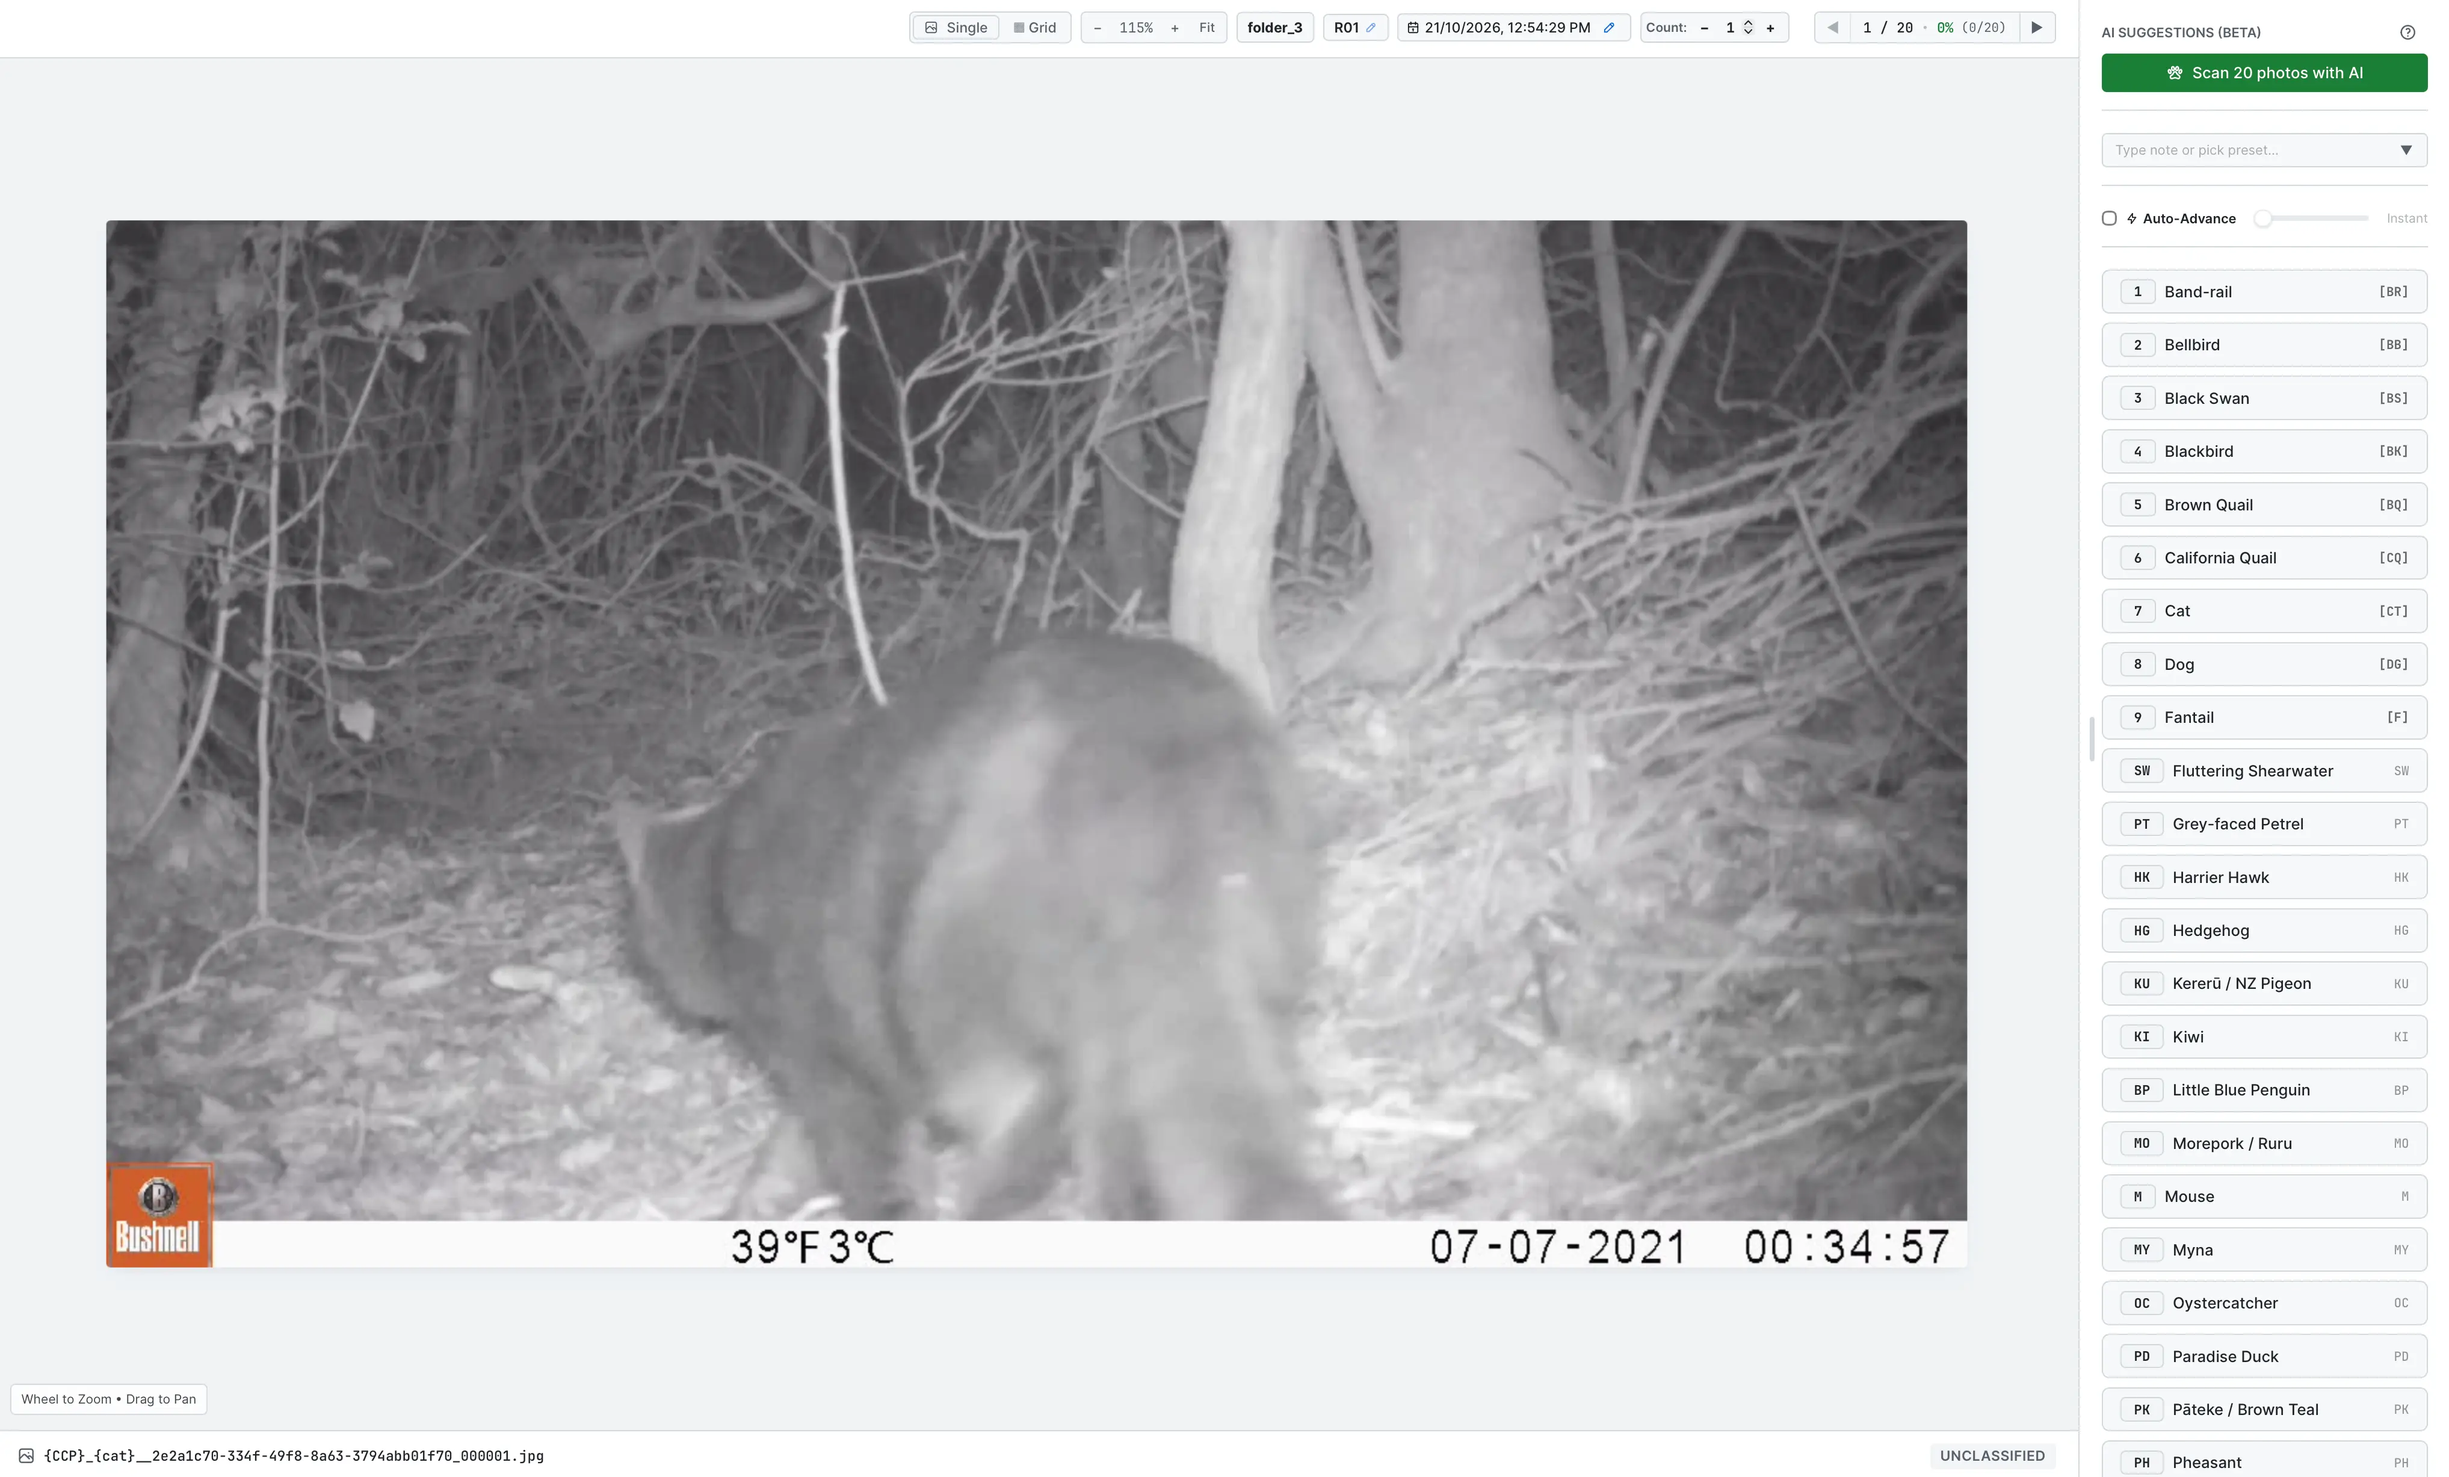
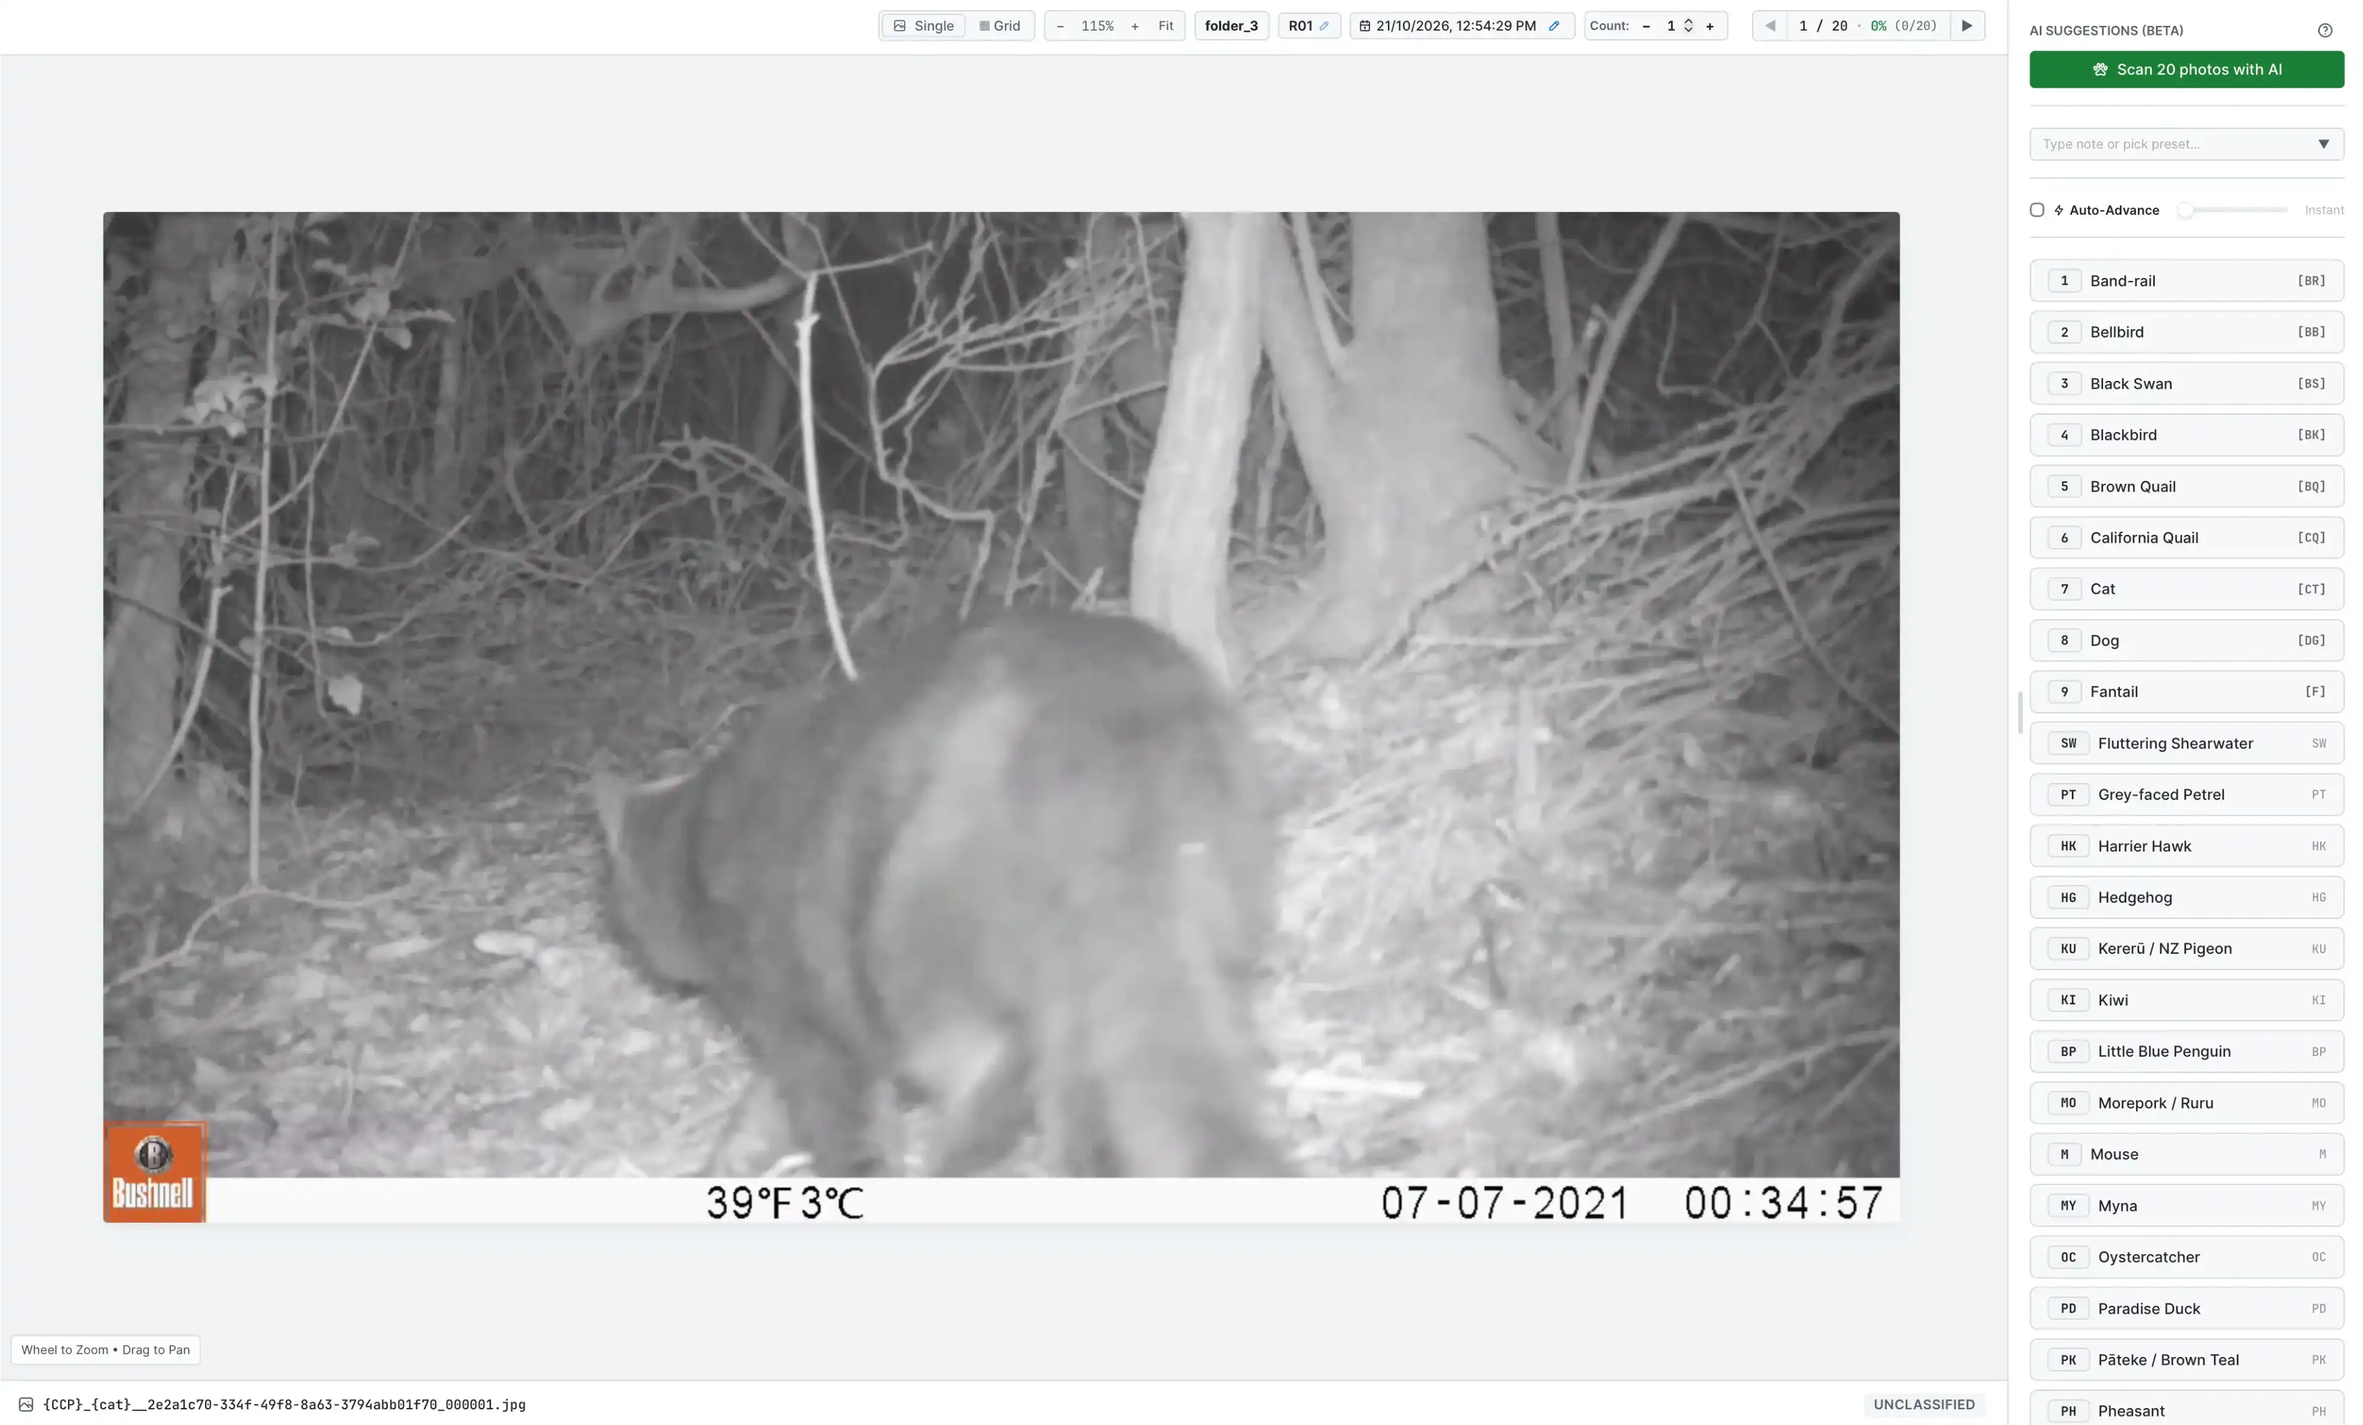
Update image ratio's and guide wording ✏

diff --git a/guide.html b/guide.html
@@ -68,7 +68,7 @@
       <div class="page-head">
         <h1>How to use TRAAACE</h1>
         <p class="lead">
-          How to tag your trail camera photos and videos, in plain language. Everything stays on your computer.
+          How to tag and export your trail camera photos and videos<br>
           The same guide is inside the app, under <strong>Guide</strong>.
         </p>
       </div>
@@ -301,7 +301,7 @@
           <section class="guide-card" id="ai">
             <h2>AI suggestions (optional)</h2>
             <p>TRAAACE can suggest the species and number of animals in each photo or video. It all happens on your
-              computer; nothing is uploaded.</p>
+              computer; nothing is uploaded to the cloud.</p>
             <div class="cols">
               <div class="inner">
                 <h3>Setting up</h3>
@@ -309,10 +309,11 @@
                   <li>Click <strong>Set up AI…</strong> in the AI suggestions box on the right. TRAAACE downloads the AI
                     add-on (about 520 MB) once, and checks it before installing.</li>
                   <li>Works on Macs with Apple Silicon (M1 or newer), Windows and Linux. Not on Intel Macs.</li>
-                  <li>To take it off again, open the same window and choose <strong>Remove the add-on…</strong>.</li>
+                  <li>To take it off again, click <strong>?</strong> and choose <strong>Remove the
+                      add-on…</strong>.</li>
                 </ul>
-                <img class="guide-shot guide-shot-small" src="images/setup_ai.webp" width="640" height="284" loading="lazy"
-                  alt="The AI suggestions box with its Set up AI button">
+                <img class="guide-shot guide-shot-small" src="images/setup_ai.webp" width="640" height="284"
+                  loading="lazy" alt="The AI suggestions box with its Set up AI button">
               </div>
               <div class="inner">
                 <h3>Using it</h3>
@@ -321,16 +322,18 @@
                     computers, much less on an Apple Silicon Mac. Videos are checked a frame every half second,
                     so they take much longer than photos. On an older computer you may prefer to tag videos yourself
                     and scan only the photos.</li>
-                  <li>Each photo shows the best guess and how sure the AI is. Press <strong>Accept</strong> to tag it, or
+                  <li>Each photo shows the best guess and how sure the AI is. Press <strong>Accept</strong> to tag it,
+                    or
                     pick one of the other guesses. <strong>Accept … suggestions</strong> tags all the confident ones at
                     once.</li>
                   <li>The AI never tags anything by itself. Check its guesses, especially for animals that look alike,
                     such as stoat and weasel, or rat and mouse.</li>
-                  <li>A species without its own key counts under your <strong>Bird</strong> or <strong>Other</strong> key.
+                  <li>A species without its own key counts under your <strong>Bird</strong> or <strong>Other</strong>
+                    key.
                     Your spreadsheet keeps the exact species.</li>
                 </ul>
-                <img class="guide-shot guide-shot-small" src="images/vidandphoto_button.webp" width="666" height="188" loading="lazy"
-                  alt="The Scan 20 photos and 7 videos with AI button">
+                <img class="guide-shot guide-shot-small" src="images/vidandphoto_button.webp" width="666" height="188"
+                  loading="lazy" alt="The Scan 20 photos and 7 videos with AI button">
               </div>
             </div>
             <div class="cols guide-shots">
@@ -370,11 +373,6 @@
                   <li><strong>CSV Import</strong> brings in results from an earlier TRAAACE export or your own
                     spreadsheet. If the file came from a Mac, see <a href="#csv-fix">Guide to uploading CSV files</a>.
                   </li>
-                  <li><strong>Interface Scaling</strong> makes everything bigger or smaller. <kbd>Ctrl</kbd> /
-                    <kbd>Cmd</kbd> with <kbd>+</kbd>, <kbd>&minus;</kbd> or <kbd>0</kbd> works anywhere.
-                  </li>
-                  <li><kbd>F11</kbd> switches full screen on and off.</li>
-                  <li><strong>Welcome Screen</strong> lets you choose whether it shows every time TRAAACE starts.</li>
                 </ul>
               </div>
             </div>
@@ -493,9 +491,10 @@
         <p>Kakapo logo: Kakapo by Cimrin from <a href="https://thenounproject.com/browse/icons/term/kakapo/"
             target="_blank" rel="noopener" title="kakapo Icons">Noun Project</a> (<a
             href="https://creativecommons.org/licenses/by/3.0/" target="_blank" rel="noopener">CC BY 3.0</a>)</p>
-        <p>AI suggestions: <a href="https://github.com/Wologman/Alita" target="_blank" rel="noopener">Alita</a> by Olly and
-              wekaResearch with the DOC Predator Science team, and <a href="https://github.com/agentmorris/MegaDetector"
-              target="_blank" rel="noopener">MegaDetector</a> by Dan Morris and contributors</p>
+        <p>AI suggestions: <a href="https://github.com/Wologman/Alita" target="_blank" rel="noopener">Alita</a> by Olly
+          and
+          wekaResearch with the DOC Predator Science team, and <a href="https://github.com/agentmorris/MegaDetector"
+            target="_blank" rel="noopener">MegaDetector</a> by Dan Morris and contributors</p>
       </div>
     </div>
   </footer>
